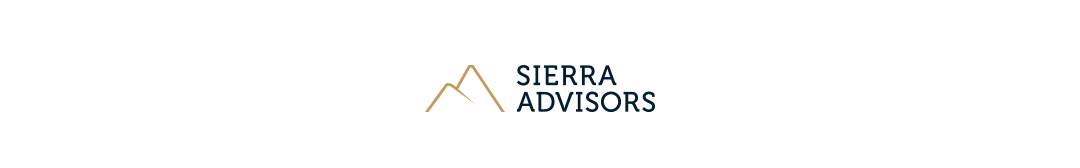
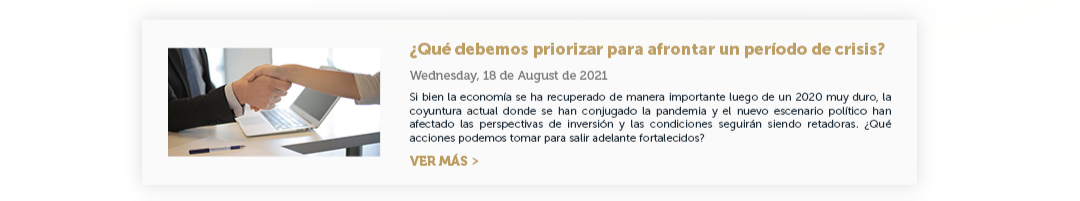
change mail sierra

Changed region(s): [[0.1528, 0.2083, 0.825, 0.8333], [0.3667, 0.2083, 0.825, 0.2976]]

diff --git a/sierra advisor/index.html b/sierra advisor/index.html
@@ -69,9 +69,28 @@
             </td>
         </tr>
         <tr>
+            <td align="center">
+                <img src="https://raw.githubusercontent.com/afterla/Correos/main/sierra%20advisor/img/2.png" alt="banner" border="0" style="width:1024px;height:auto;display:block;" />
+            </td>
+        </tr>
+        <tr>
+            <td align="center">
+                <a target="_blank" href="https://sierraadvisors.pe/que-debemos-priorizar-para-afrontar-un-periodo-de-crisis/">
+                    <img src="https://raw.githubusercontent.com/afterla/Correos/main/sierra%20advisor/img/1.png" alt="car1" width="1024" border="0" style="width:1024px;height:auto;display:block;">
+                </a>
+            </td>
+        </tr>
+        <tr>
+            <td align="center">
+                <a target="_blank" href="https://sierraadvisors.pe/prestamo-reactiva-que-puedo-y-no-puedo-hacer/">
+                    <img src="https://raw.githubusercontent.com/afterla/Correos/main/sierra%20advisor/img/2.png" alt="car1" width="1024" border="0" style="width:1024px;height:auto;display:block;">
+                </a>
+            </td>
+        </tr>
+        <tr>
             <td align="center" style="background-color: #fff;">
-                <a target="_blank" href="https://sierraadvisors.pe/">
-                    <img src="https://raw.githubusercontent.com/afterla/Correos/main/sierra%20advisor/img/contenido.png" alt="banner" border="0" style="width:1024px;height:auto;display:block;" />
+                <a target="_blank" href="https://sierraadvisors.pe/deficit-de-capital-de-trabajo-o-riesgo-de-liquidez/" target="_blank">
+                    <img src="https://raw.githubusercontent.com/afterla/Correos/main/sierra%20advisor/img/3.png" alt="car3" width="1024" border="0" style="width:1024px;height:auto;display:block;">
                 </a>
             </td>
         </tr>
